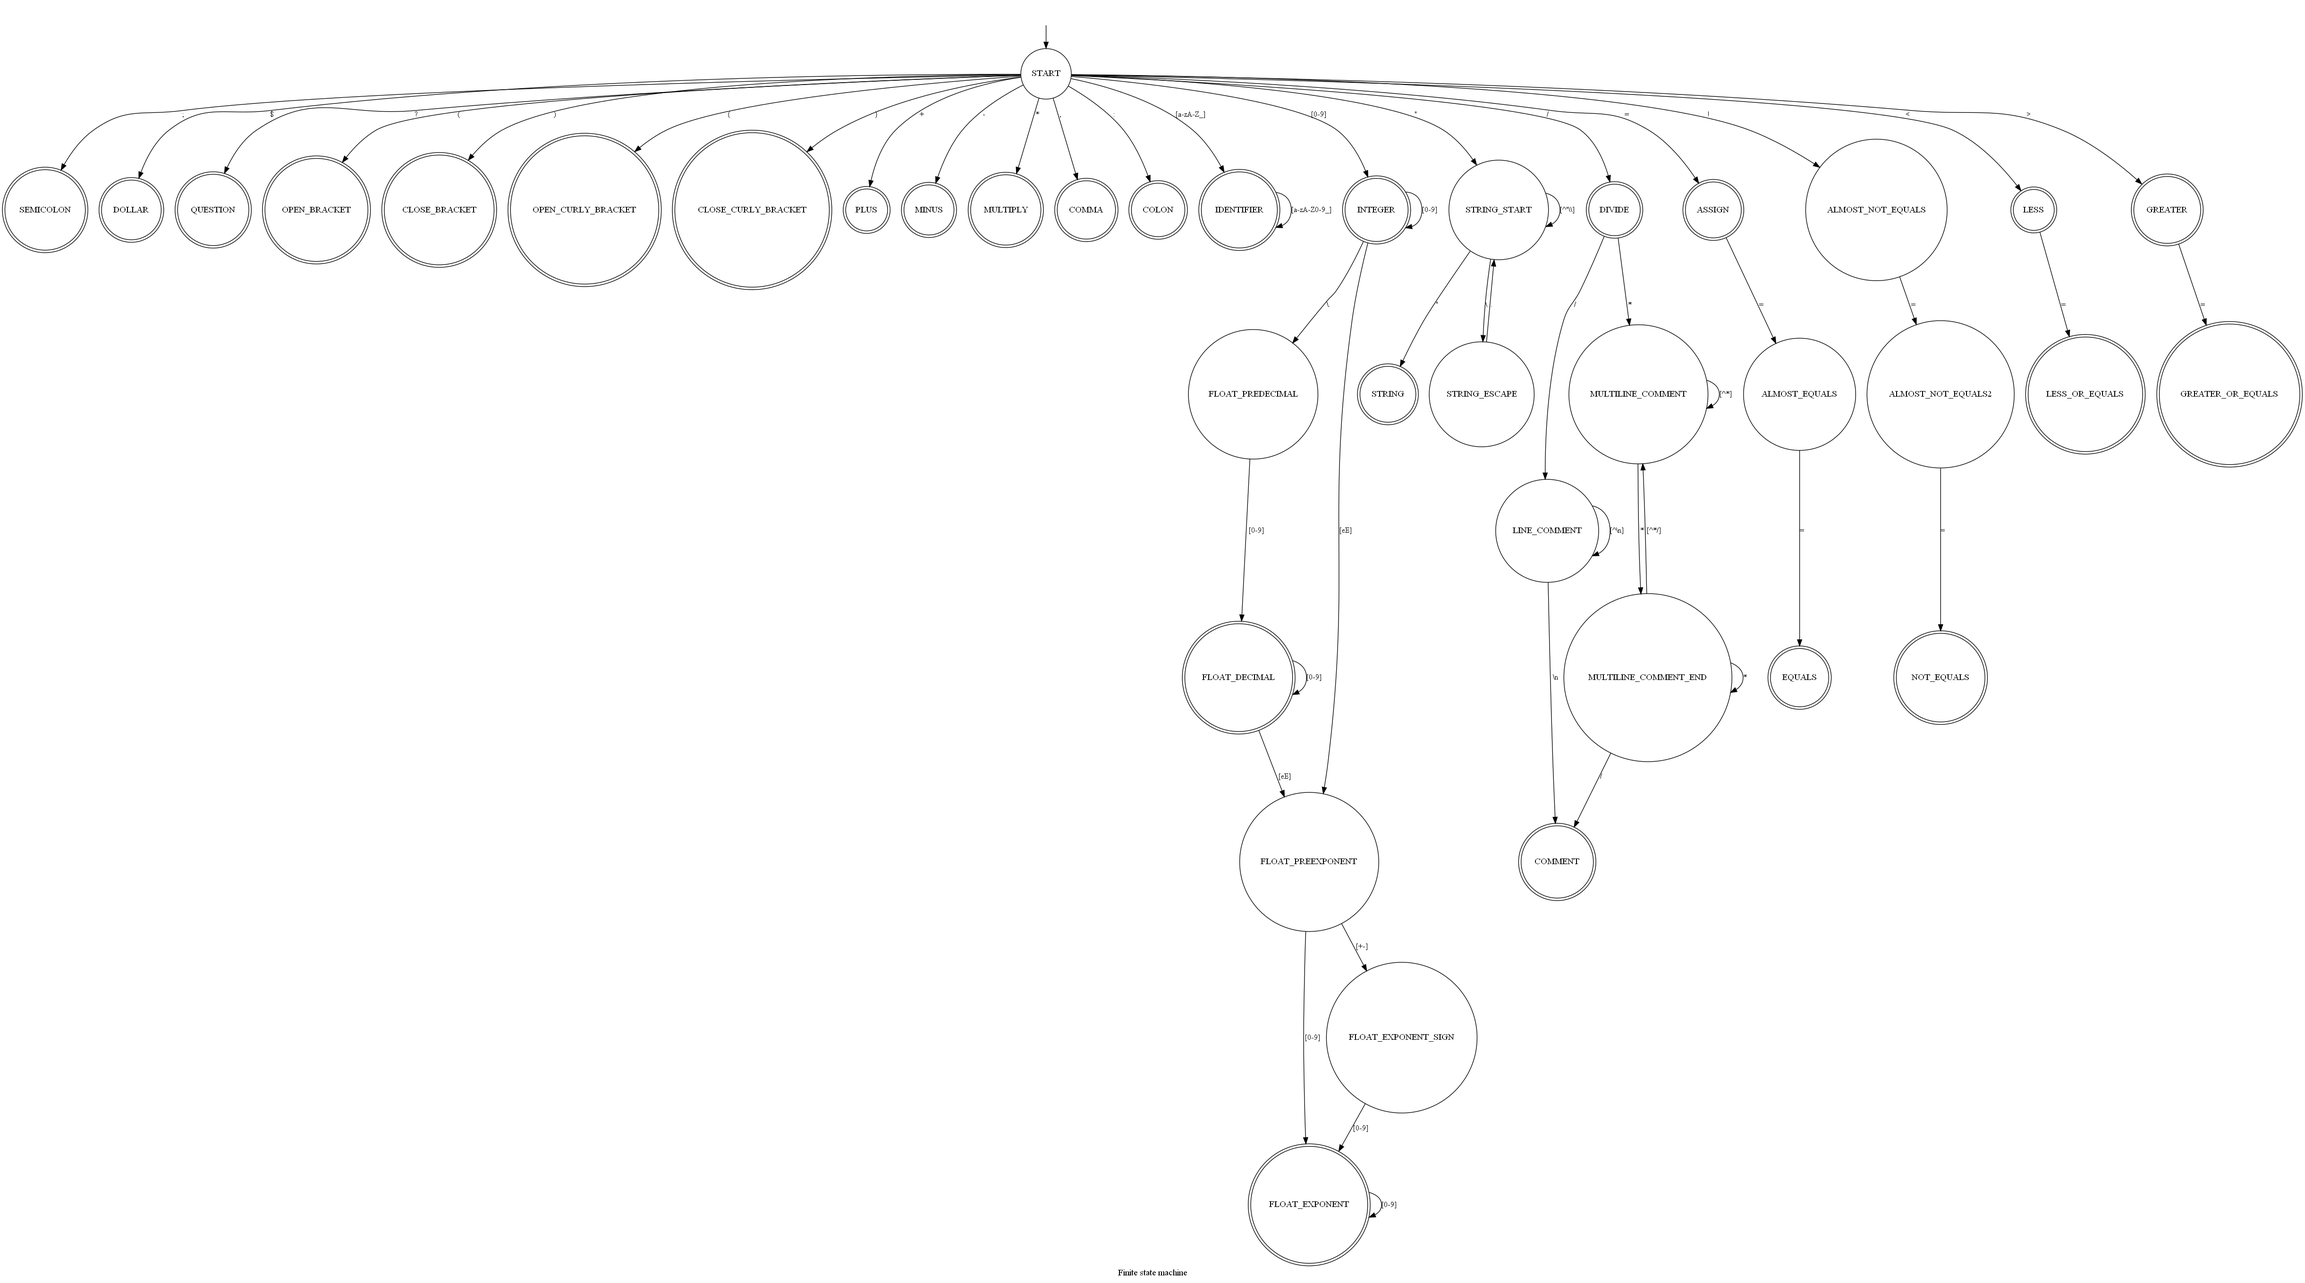
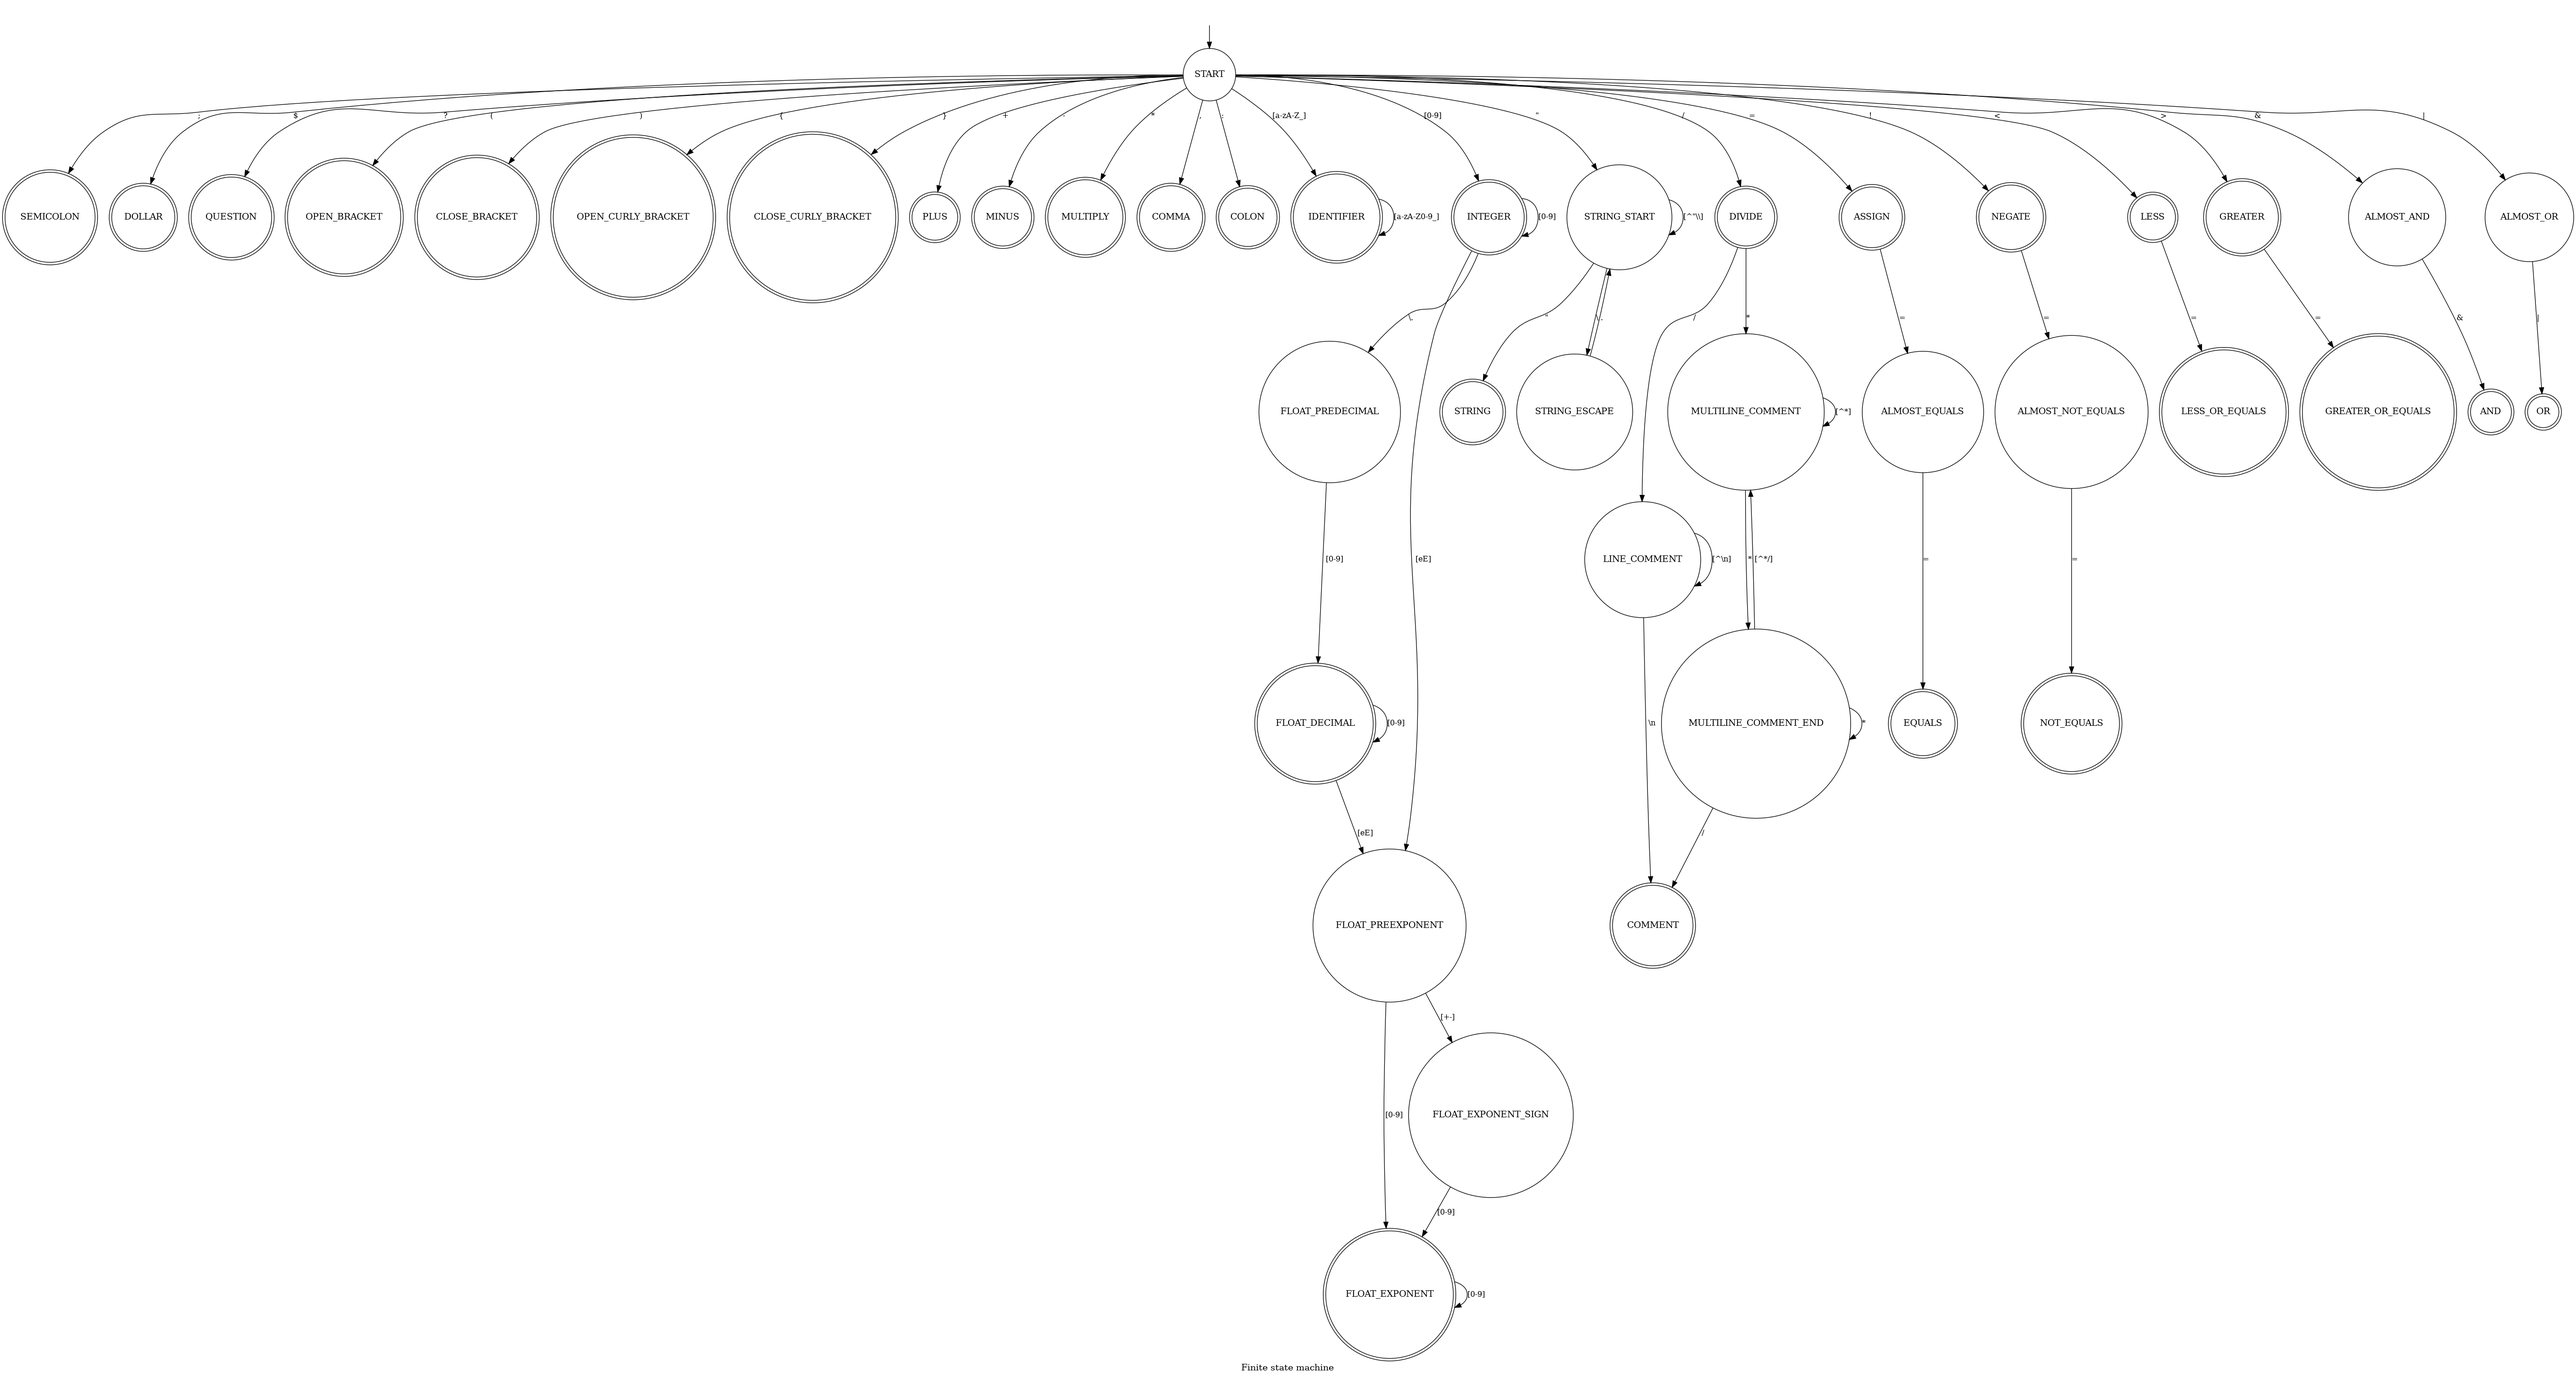
Unary operator ! + edit fsm

diff --git a/ast.c b/ast.c
@@ -461,6 +461,25 @@ UnionType getExpressionVarType(Expression__Variable * variable, Table * function
             return propagateUnionType(type1, type2);
             break;
         }
+        case EXPRESSION_UNARY_OPERATOR: {
+            Expression__UnaryOperator* unOp = (Expression__UnaryOperator*)expression;
+            UnionType rType;
+            UnionType type = getExpressionVarType(variable, functionTable, unOp->rSide, variableTable, &rType);
+            /*TODO? 
+             if(exprTypeRet == NULL) {
+                return propagateUnionType(type1, type2);
+            }*/
+            *exprTypeRet = (UnionType){0};
+            switch (unOp->operator) {
+                case TOKEN_NEGATE:
+                    exprTypeRet->isBool = true;
+                    break;
+                default:
+                    break;
+            }
+            return type;
+            break;
+        }
     }
     return (UnionType){0};
 }
@@ -815,9 +834,6 @@ void Expression__BinaryOperator__serialize(Expression__BinaryOperator *this, Str
         case TOKEN_OR:
             StringBuilder__appendString(stringBuilder, "||");
             break;
-        case TOKEN_NEGATE:
-            StringBuilder__appendString(stringBuilder, "!");
-            break;
         default:
             StringBuilder__appendString(stringBuilder, "TODO");
     }
@@ -937,6 +953,100 @@ Expression__BinaryOperator* Expression__BinaryOperator__init() {
     this->super.super.free = (void (*)(struct Statement *))Expression__BinaryOperator__free;
     this->super.getType = (UnionType (*)(struct Expression *, Table *, StatementList *, Function *))Expression__BinaryOperation__getType;
     this->lSide = NULL;
+    this->rSide = NULL;
+    return this;
+}
+
+/**
+ * @brief Unary operator expression serializer
+ * 
+ * @param type 
+ */
+void Expression__UnaryOperator__serialize(Expression__UnaryOperator *this, StringBuilder * stringBuilder) {
+    StringBuilder__appendString(stringBuilder, "{\"expressionType\": \"EXPRESSION_UNARY_OPERATION\", \"operator\": \"");
+    switch (this->operator) {
+        case TOKEN_NEGATE:
+            StringBuilder__appendString(stringBuilder, "!");
+            break;
+        default:
+            StringBuilder__appendString(stringBuilder, "TODO");
+    }
+    StringBuilder__appendString(stringBuilder, "\", \"rSide\": ");
+    if(this->rSide != NULL) {
+        this->rSide->super.serialize((Statement*)this->rSide, stringBuilder);
+    } else {
+        StringBuilder__appendString(stringBuilder, "null");
+    }
+    StringBuilder__appendString(stringBuilder, "}");
+}
+
+/**
+ * @brief Get unary operator expression children
+ * 
+ * @param type 
+ * @return Statement*** 
+ */
+Statement *** Expression__UnaryOperator__getChildren(Expression__UnaryOperator *this, int * childrenCount) {
+    *childrenCount = 1;
+    Statement *** children = malloc(*childrenCount * sizeof(Statement**));
+    children[0] = (Statement**) &this->rSide;
+    return children;
+}
+
+/**
+ * @brief Get unary operator expression type
+ * 
+ * @param this 
+ * @return Type 
+ */
+UnionType Expression__UnaryOperation__getType(Expression__UnaryOperator *this, Table * functionTable, StatementList * program, Function * currentFunction) {
+    UnionType type = {0};
+    switch (this->operator) {
+        case TOKEN_NEGATE:
+            type.isBool = true;
+            break;
+        default:
+            fprintf(stderr, "Unknown unary operator, unable to generate type\n");
+            exit(99);
+            break;
+    }
+    return type;
+}
+
+/**
+ * @brief Duplicates Expression__UnaryOperator
+ * 
+ * @param this 
+ * @return Expression__UnaryOperator* 
+ */
+Expression__UnaryOperator* Expression__UnaryOperator__duplicate(Expression__UnaryOperator* this) {
+    Expression__UnaryOperator* duplicate = Expression__UnaryOperator__init();
+    duplicate->operator = this->operator;
+    duplicate->rSide = (this->rSide != NULL ? (Expression*)this->rSide->super.duplicate((Statement*)this->rSide) : NULL);
+    return duplicate;
+}
+
+void Expression__UnaryOperator__free(Expression__UnaryOperator* this) {
+    if(this == NULL) return;
+    this->rSide->super.free((Statement*)this->rSide);
+    free(this);
+}
+
+/**
+ * @brief Unary operator expression constructor
+ * 
+ * @param type 
+ * @return Expression__UnaryOperator* 
+ */
+Expression__UnaryOperator* Expression__UnaryOperator__init() {
+    Expression__UnaryOperator *this = malloc(sizeof(Expression__UnaryOperator));
+    this->super.expressionType = EXPRESSION_UNARY_OPERATOR;
+    this->super.super.statementType = STATEMENT_EXPRESSION;
+    this->super.super.serialize = (void (*)(struct Statement *, StringBuilder *))Expression__UnaryOperator__serialize;
+    this->super.super.getChildren = (struct Statement *** (*)(struct Statement *, int *))Expression__UnaryOperator__getChildren;
+    this->super.super.duplicate = (struct Statement * (*)(struct Statement *))Expression__UnaryOperator__duplicate;
+    this->super.super.free = (void (*)(struct Statement *))Expression__UnaryOperator__free;
+    this->super.getType = (UnionType (*)(struct Expression *, Table *, StatementList *, Function *))Expression__UnaryOperation__getType;
     this->rSide = NULL;
     return this;
 }

diff --git a/parser.c b/parser.c
@@ -61,6 +61,10 @@ bool is_operator(Token token) {
     return token.type == TOKEN_PLUS || token.type == TOKEN_MINUS || token.type == TOKEN_MULTIPLY || token.type == TOKEN_DIVIDE || token.type == TOKEN_CONCATENATE || token.type == TOKEN_LESS || token.type == TOKEN_LESS_OR_EQUALS || token.type == TOKEN_GREATER || token.type == TOKEN_GREATER_OR_EQUALS || token.type == TOKEN_EQUALS || token.type == TOKEN_NOT_EQUALS || token.type == TOKEN_ASSIGN || token.type == TOKEN_AND || token.type == TOKEN_OR || token.type == TOKEN_NEGATE;
 }
 
+bool is_unary_operator(Token token) {
+    return token.type == TOKEN_NEGATE;
+}
+
 char * decodeString(char * text) {
     int len = strlen(text);
     char * result = malloc(len + 1);
@@ -154,7 +158,7 @@ bool parse_terminal_expression(Expression ** expression) {
         if(!parse_function_call(expression)) return false;
         return true;
     }
-    if(nextToken.type != TOKEN_VARIABLE && nextToken.type != TOKEN_INTEGER && nextToken.type != TOKEN_FLOAT && nextToken.type != TOKEN_STRING && nextToken.type != TOKEN_NULL && nextToken.type != TOKEN_BOOL && nextToken.type != TOKEN_NEGATE) {
+    if(nextToken.type != TOKEN_VARIABLE && nextToken.type != TOKEN_INTEGER && nextToken.type != TOKEN_FLOAT && nextToken.type != TOKEN_STRING && nextToken.type != TOKEN_NULL && nextToken.type != TOKEN_BOOL) {
         printParserError(nextToken, "Expected expression");
         return false;
     }
@@ -198,7 +202,9 @@ bool parse_terminal_expression(Expression ** expression) {
 }
 
 bool parse_expression(Expression ** expression, TokenType previousToken) {
-    if(!parse_terminal_expression(expression)) return false;
+    if(!is_unary_operator(nextToken)) {
+        if(!parse_terminal_expression(expression)) return false;
+    }
     while(is_operator(nextToken)) {
         Token operatorToken = nextToken;
         int j = get_prec_tb_indx(operatorToken.type);
@@ -206,12 +212,20 @@ bool parse_expression(Expression ** expression, TokenType previousToken) {
         //if(i == -1 || j == -1) would happen error but it shouldn't be possible
         bool precedence = precedence_tb[i][j];
         if(precedence) {
-            Expression__BinaryOperator * operator = Expression__BinaryOperator__init();
-            operator->operator = operatorToken.type;
-            operator->lSide = *expression;
-            *expression = (Expression*)operator;
-            nextToken = getNextToken();
-            if(!parse_expression(&operator->rSide, operatorToken.type)) return false;
+            if(!is_unary_operator(nextToken)) {
+                Expression__BinaryOperator * operator = Expression__BinaryOperator__init();
+                operator->operator = operatorToken.type;
+                operator->lSide = *expression;
+                *expression = (Expression*)operator;
+                nextToken = getNextToken();
+                if(!parse_expression(&operator->rSide, operatorToken.type)) return false;
+            } else {
+                Expression__UnaryOperator * operator = Expression__UnaryOperator__init();
+                operator->operator = operatorToken.type;
+                *expression = (Expression*)operator;
+                nextToken = getNextToken();
+                if(!parse_expression(&operator->rSide, operatorToken.type)) return false;
+            }
         } else {
             break;
         }

diff --git a/code_generator.c b/code_generator.c
@@ -767,6 +767,32 @@ Symb generateBinaryOperator(Expression__BinaryOperator * expression, Context ctx
         case TOKEN_OR:
             emit_OR(outVar, left, right);
             break;
+        default:
+            fprintf(stderr, "Unknown operator found while generating output code\n");
+            exit(99);
+    }
+    freeTemporarySymbol(left, ctx);
+    freeTemporarySymbol(right, ctx);
+    return outSymb;
+}
+
+/**
+ * @brief Generates unary operator code
+ * 
+ * @param expression Expression to generate
+ * @param ctx Context
+ * @return Symb
+ */
+Symb generateUnaryOperator(Expression__UnaryOperator * expression, Context ctx, bool throwaway, Var * outVarAlt) {
+    Symb right = generateExpression(expression->rSide, ctx, false, NULL);
+    Var outVar;
+    if(outVarAlt == NULL) {
+        outVar = generateTemporaryVariable(ctx);
+    } else {
+        outVar = *outVarAlt;
+    }
+    Symb outSymb = (Symb){.type=Type_variable, .value.v = outVar};
+    switch(expression->operator) {
         case TOKEN_NEGATE:
             emit_NOT(outVar, outSymb);
             break;
@@ -774,7 +800,6 @@ Symb generateBinaryOperator(Expression__BinaryOperator * expression, Context ctx
             fprintf(stderr, "Unknown operator found while generating output code\n");
             exit(99);
     }
-    freeTemporarySymbol(left, ctx);
     freeTemporarySymbol(right, ctx);
     return outSymb;
 }
@@ -801,6 +826,9 @@ Symb generateExpression(Expression * expression, Context ctx, bool throwaway, Va
             break;
         case EXPRESSION_BINARY_OPERATOR:
             return generateBinaryOperator((Expression__BinaryOperator*)expression, ctx, throwaway, outVar);
+            break;
+        case EXPRESSION_UNARY_OPERATOR:
+            return generateUnaryOperator((Expression__UnaryOperator*)expression, ctx, throwaway, outVar);
             break;
         default:
             fprintf(stderr, "Unknown expression type found while generating output code\n");

diff --git a/emitter.c b/emitter.c
@@ -364,6 +364,36 @@ void emit_STRI2INT(Var var, Symb symb1, Symb symb2) {
 	StringBuilder__appendChar(&instructionBuilder, '\n');
 }
 
+void emit_INT2BOOL(Var var, Symb symb1, Symb symb2) {
+	StringBuilder__appendString(&instructionBuilder, "INT2BOOL ");
+	emit_var(var);
+	StringBuilder__appendChar(&instructionBuilder, ' ');
+	emit_symb(symb1);
+	StringBuilder__appendChar(&instructionBuilder, ' ');
+	emit_symb(symb2);
+	StringBuilder__appendChar(&instructionBuilder, '\n');
+}
+
+void emit_FLOAT2BOOL(Var var, Symb symb1, Symb symb2) {
+	StringBuilder__appendString(&instructionBuilder, "FLOAT2BOOL ");
+	emit_var(var);
+	StringBuilder__appendChar(&instructionBuilder, ' ');
+	emit_symb(symb1);
+	StringBuilder__appendChar(&instructionBuilder, ' ');
+	emit_symb(symb2);
+	StringBuilder__appendChar(&instructionBuilder, '\n');
+}
+
+void emit_STRI2BOOL(Var var, Symb symb1, Symb symb2) {
+	StringBuilder__appendString(&instructionBuilder, "STRI2BOOL ");
+	emit_var(var);
+	StringBuilder__appendChar(&instructionBuilder, ' ');
+	emit_symb(symb1);
+	StringBuilder__appendChar(&instructionBuilder, ' ');
+	emit_symb(symb2);
+	StringBuilder__appendChar(&instructionBuilder, '\n');
+}
+
 void emit_INT2FLOATS() {
 	StringBuilder__appendString(&instructionBuilder, "INT2FLOATS\n");
 }

diff --git a/optimizer.c b/optimizer.c
@@ -96,7 +96,7 @@ Expression__Constant * performConstantCast(Expression__Constant * in, Type targe
                     result->value.boolean = in->value.real != 0.0;
                     break;
                 case TYPE_STRING:
-                    result->value.boolean = in->value.string[0] != '\0';
+                    result->value.boolean = strcmp(in->value.string, "1") == 0 ? true : false;
                     break;
                 case TYPE_VOID:
                 case TYPE_NULL:
@@ -324,6 +324,14 @@ int getExpressionError(Expression * expression, Table * functionTable, Statement
                 }
             }
 
+            int rightError = getExpressionError(op->rSide, functionTable, program, currentFunction);
+            if(rightError != 0) {
+                return rightError;
+            }
+            return -1;
+        }
+        case EXPRESSION_UNARY_OPERATOR: {
+            Expression__UnaryOperator * op = (Expression__UnaryOperator *) expression;
             int rightError = getExpressionError(op->rSide, functionTable, program, currentFunction);
             if(rightError != 0) {
                 return rightError;

diff --git a/ast.h b/ast.h
@@ -87,7 +87,8 @@ typedef enum {
     EXPRESSION_CONSTANT,
     EXPRESSION_VARIABLE,
     EXPRESSION_FUNCTION_CALL,
-    EXPRESSION_BINARY_OPERATOR
+    EXPRESSION_BINARY_OPERATOR,
+    EXPRESSION_UNARY_OPERATOR
 } ExpressionType;
 
 struct Function;
@@ -144,6 +145,15 @@ typedef struct {
 } Expression__BinaryOperator;
 
 Expression__BinaryOperator* Expression__BinaryOperator__init();
+
+typedef struct {
+    Expression super; /*<Superclass>*/
+
+    Expression * rSide; /*<Right side of the expression>*/
+    TokenType operator; /*<Operator>*/
+} Expression__UnaryOperator;
+
+Expression__UnaryOperator* Expression__UnaryOperator__init();
 
 typedef struct {
     Statement super; /*<Superclass>*/
